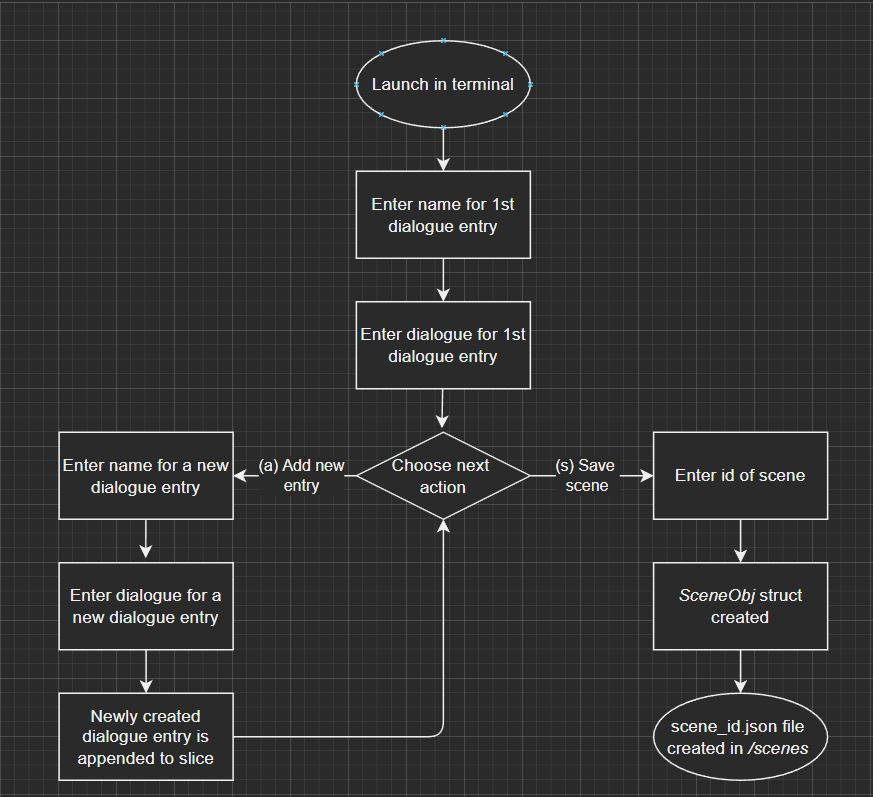
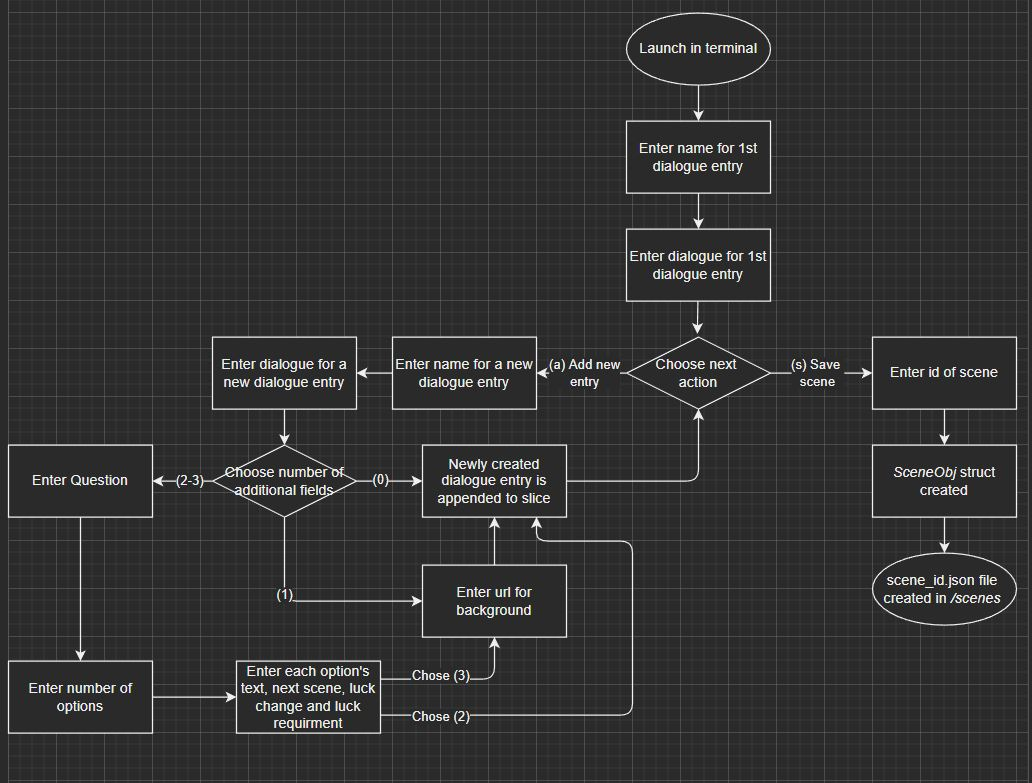
Add demo GIF to README, update user flow diagram

diff --git a/README.md b/README.md
@@ -24,12 +24,24 @@ Instead of making methods which directly mutate the struct variable that they're
 To launch, type into the terminal:
 
 ```bash
-clear ; go run dialogue.go dialogueTypes.go
+go run dialogue.go dialogueTypes.go
 ```
 Then, enter the name and dialogue for the first entry. 
 
-After doing this, there is a prompt, asking if the user wishes to create more entries, and as before, prompts for name and dialogue fields.
+After this, there is a prompt to ask how many extra fields in addition to _name_ & _dialogue_ there should be in that particular dialogue object:
+- Entering 1 will prompt only for a link to a background image 
+- Entering 2 will prompt for a question, prompt for a number of options the user could choose, and again for each choice, what the details of that choice should be (text, id of the next scene, luck and luck requirement to have that choice available)
+- Entering 3 will prompt as in 1) and then as in 2).
+
+After doing this, there is a prompt, asking if the user wishes to create more entries, and as before, prompts for name and dialogue fields as well as number of extra fields and options (if applicable).
 
 When the user has finished the last entry of the slice, they can may enter _"s"_ at the next prompt (instead of _"a"_), which returns the final version of that copy of the struct variable.
 
 Lastly, the user is prompted to enter an id for that scene (corresponding to which choice made at the end of the previous scene should lead to this new scene) and then the whole scene is _marshalled_ into JSON format, and outputted as a file with a name of *"scene_id.json"* into the _scenes_ folder.
+
+<details>
+<summary><h2>Demonstration</h2></summary>
+
+![Usage GIF](./readmeMedia/vnDialogueCLI.gif)
+
+</details>
